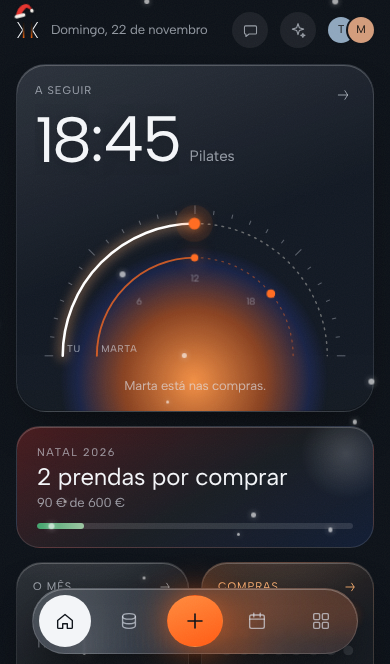
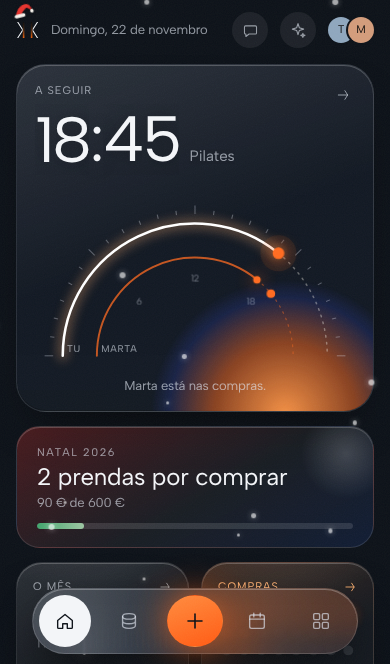
Natal: lista compacta; tocar na pessoa abre o cartão dela com tudo editável, as ideias e os anos anteriores (#119)
Claude-Session: https://claude.ai/code/session_013frMxfY7BhmHkVSM7abdmm

Changed region(s): [[0.1846, 0.3012, 0.9538, 0.6325], [0.1538, 0.4819, 0.1846, 0.512]]

diff --git a/src/screens/Natal.tsx b/src/screens/Natal.tsx
@@ -97,29 +97,43 @@ function Ideas({ name, secret, onPick }: { name: string; secret: string | null; 
   );
 }
 
-function GiftSheet({ g }: { g: XGift }) {
+/** A pessoa aberta: tudo editável (nome, prenda, preço, comprada), as ideias e o que se deu nos anos anteriores. */
+function GiftCard({ g, done }: { g: XGift; done: () => void }) {
   const { xmas } = useHouse();
-  const { close, toast } = useOverlays();
+  const { toast } = useOverlays();
+  const { year, yearOf } = useNatal();
   const buy = useBuy();
+  const [name, setName] = useState(g.to_name);
   const [item, setItem] = useState(g.item ?? '');
   const [price, setPrice] = useState(g.price === null ? '' : String(g.price).replace('.', ','));
+  const past = pastFor(g.to_name, xmas.rows, yearOf, year);
   async function save(e: FormEvent) {
     e.preventDefault();
+    if (!name.trim()) return toast('Falta o nome.');
     const p = price.trim() ? parseAmount(price) : null;
-    const { error } = await supabase.from('xmas_gifts').update({ item: item.trim().slice(0, 80) || null, price: p }).eq('id', g.id);
+    const { error } = await supabase.from('xmas_gifts').update({ to_name: name.trim().slice(0, 60), item: item.trim().slice(0, 80) || null, price: p }).eq('id', g.id);
     if (error) return toast(error.message);
-    xmas.reload(); close();
+    xmas.reload(); done(); toast('Guardado.', { ok: true });
   }
   return (
-    <form className="stack" onSubmit={save} autoComplete="off">
-      <p className="l">{g.to_name}{g.secret_for ? ' · secreta' : ''}</p>
+    <form className="natal-card-open" onSubmit={save} autoComplete="off">
+      {!g.secret_for && <input className="field" value={name} onChange={(e) => setName(e.target.value)} maxLength={60} aria-label="Para quem" placeholder="Para quem" />}
+      <div className="natal-two">
+        <input className="field" value={item} onChange={(e) => setItem(e.target.value)} placeholder="O quê" maxLength={80} aria-label="O quê" />
+        <input className="field" value={price} onChange={(e) => setPrice(e.target.value)} placeholder="€" inputMode="decimal" aria-label="Preço" />
+      </div>
       <Ideas name={g.to_name} secret={g.secret_for} onPick={(x) => setItem(x)} />
-      <input className="field" value={item} onChange={(e) => setItem(e.target.value)} placeholder="O quê (ex.: perfume)" maxLength={80} aria-label="O quê" />
-      <input className="field" value={price} onChange={(e) => setPrice(e.target.value)} placeholder="Preço" inputMode="decimal" aria-label="Preço" />
-      <button className="btn wide press">Guardar</button>
-      {!g.bought && <button type="button" className="btn accent wide press" onClick={async () => { close(); await buy({ ...g, item: item.trim() || null }, price.trim() ? Number(parseAmount(price)) : null); }}><Icon n="check" s={18} /> Comprada</button>}
-      {g.bought && <button type="button" className="btn quiet wide press" onClick={async () => { await supabase.from('xmas_gifts').update({ bought: false, expense_id: null }).eq('id', g.id); xmas.reload(); close(); }}>Afinal ainda não está comprada</button>}
-      <button type="button" className="tb quiet press" style={{ alignSelf: 'center' }} onClick={async () => { await supabase.from('xmas_gifts').delete().eq('id', g.id); xmas.reload(); close(); toast('Apagada.'); }}>Apagar</button>
+      {past.length > 0 && <section className="natal-past" aria-label="Anos anteriores">
+        <span className="s">Anos anteriores</span>
+        <ul>{past.map((x, k) => <li key={k}><span className="num">{x.year}</span><span>{x.item ?? 'prenda'}</span><span className="num">{x.price ? euro(x.price) : ''}</span></li>)}</ul>
+      </section>}
+      <div className="natal-acts">
+        <button className="btn press">Guardar</button>
+        {!g.bought
+          ? <button type="button" className="btn accent press" onClick={async () => { done(); await buy({ ...g, to_name: name.trim() || g.to_name, item: item.trim() || null }, price.trim() ? Number(parseAmount(price)) : null); }}><Icon n="check" s={16} /> Comprada</button>
+          : <button type="button" className="btn quiet press" onClick={async () => { await supabase.from('xmas_gifts').update({ bought: false, expense_id: null }).eq('id', g.id); xmas.reload(); }}>Ainda não comprada</button>}
+        <button type="button" className="tb quiet press" onClick={async () => { await supabase.from('xmas_gifts').delete().eq('id', g.id); xmas.reload(); done(); toast('Apagada.'); }}>Apagar</button>
+      </div>
     </form>
   );
 }
@@ -147,6 +161,7 @@ export function NatalScreen() {
   const buy = useBuy();
   const [to, setTo] = useState(''), [item, setItem] = useState(''), [price, setPrice] = useState('');
   const [secret, setSecret] = useState<string | null>(null);
+  const [openId, setOpenId] = useState<string | null>(null);
   const others = members.filter((m) => m.id !== me?.id);
   const list = useMemo(() => (occ ? xmas.rows.filter((g) => g.occasion_id === occ.id) : []).sort((a, b) => Number(a.bought) - Number(b.bought) || a.to_name.localeCompare(b.to_name)), [xmas.rows, occ]);
   const total = publicTotal(list.filter((g) => g.bought));
@@ -198,17 +213,20 @@ export function NatalScreen() {
       {list.length === 0 ? <p className="s">Ainda sem prendas. Começa pelas pessoas: o resto vem depois.</p> : (
         <ul className="natal-list">
           {list.map((g) => {
-            const past = pastFor(g.to_name, xmas.rows, yearOf, year)[0];
             const nIdeas = ideasFor(g.to_name, ideas.rows).length;
+            const isOpen = openId === g.id;
             return (
-              <li key={g.id} className={g.bought ? 'done' : ''}>
-                <button type="button" className="tick press" role="checkbox" aria-checked={g.bought} aria-label={`${g.bought ? 'Comprada' : 'Por comprar'}: ${g.to_name}`}
-                  onClick={async () => { if (g.bought) { await supabase.from('xmas_gifts').update({ bought: false, expense_id: null }).eq('id', g.id); xmas.reload(); } else if (g.price === null) open(<GiftSheet g={g} />); else await buy(g, Number(g.price)); }}><i /></button>
-                <button type="button" className="st2 press natal-row" onClick={() => open(<GiftSheet g={g} />)}>
-                  <span>{g.to_name}{g.secret_for && <span className="natal-lock"> · secreta</span>}</span>
-                  <span className="s">{[g.item, !g.item && nIdeas ? `${nIdeas} ${nIdeas === 1 ? 'ideia' : 'ideias'}` : '', past ? `${past.year}: ${past.item ?? 'prenda'}${past.price ? ` · ${euro(past.price)}` : ''}` : ''].filter(Boolean).join(' · ') || 'O quê?'}</span>
-                </button>
-                <span className="num natal-p">{g.price !== null ? euro(Number(g.price)) : '—'}</span>
+              <li key={g.id} className={`${g.bought ? 'done' : ''}${isOpen ? ' open' : ''}`}>
+                <div className="natal-line">
+                  <button type="button" className="tick press" role="checkbox" aria-checked={g.bought} aria-label={`${g.bought ? 'Comprada' : 'Por comprar'}: ${g.to_name}`}
+                    onClick={async () => { if (g.bought) { await supabase.from('xmas_gifts').update({ bought: false, expense_id: null }).eq('id', g.id); xmas.reload(); } else if (g.price === null) setOpenId(g.id); else await buy(g, Number(g.price)); }}><i /></button>
+                  <button type="button" className="natal-row press" aria-expanded={isOpen} onClick={() => setOpenId(isOpen ? null : g.id)}>
+                    <b>{g.to_name}</b>{g.secret_for && <span className="natal-lock">secreta</span>}
+                    <span className="s">{g.item ?? (nIdeas ? `${nIdeas} ${nIdeas === 1 ? 'ideia' : 'ideias'}` : '')}</span>
+                  </button>
+                  <span className="num natal-p">{g.price !== null ? euro(Number(g.price)) : ''}</span>
+                </div>
+                {isOpen && <GiftCard g={g} done={() => setOpenId(null)} />}
               </li>
             );
           })}

diff --git a/src/n2/n2.css b/src/n2/n2.css
@@ -547,7 +547,7 @@ a.lead:hover{text-decoration:underline;text-decoration-thickness:1px;text-underl
 .natal-secret{display:inline-flex;align-items:center;gap:6px}
 .natal-add{display:grid;gap:10px;padding:16px}
 .natal-list{list-style:none;margin:0;padding:0;display:grid;gap:2px}
-.natal-list li{display:grid;grid-template-columns:auto 1fr auto;align-items:center;gap:12px;padding:10px 2px;border-bottom:1px solid var(--line)}
+.natal-list > li.x-old{display:grid;grid-template-columns:auto 1fr auto;align-items:center;gap:12px;padding:10px 2px;border-bottom:1px solid var(--line)}
 .natal-list li.done .natal-row > span:first-child{color:var(--sub);text-decoration:line-through;text-decoration-color:rgba(255,255,255,.3)}
 .natal-row{background:none;border:0;color:inherit;text-align:left;padding:0;min-width:0}
 .natal-row .s{white-space:nowrap;overflow:hidden;text-overflow:ellipsis}
@@ -566,3 +566,20 @@ a.lead:hover{text-decoration:underline;text-decoration-thickness:1px;text-underl
 .natal-ideas li{display:grid;grid-template-columns:1fr auto auto;align-items:center;gap:6px;padding:6px 0;border-bottom:1px solid var(--line)}
 .natal-ideas .add-row{display:flex;gap:8px}
 .natal-ideas .add-row .field{flex:1;min-width:0}
+/* Natal: lista compacta; a pessoa abre-se no próprio cartão */
+.natal-list > li{display:block;padding:0;border-bottom:1px solid var(--line)}
+.natal-line{display:grid;grid-template-columns:auto minmax(0,1fr) auto;align-items:center;gap:10px;min-height:44px}
+.natal-list .tick{width:22px;height:22px}
+.natal-row{display:flex;align-items:baseline;gap:8px;min-width:0;background:none;border:0;color:inherit;text-align:left;padding:10px 0;width:100%}
+.natal-row b{font-weight:500;white-space:nowrap}
+.natal-row .s{min-width:0;white-space:nowrap;overflow:hidden;text-overflow:ellipsis}
+.natal-row .natal-lock{font-size:10px;letter-spacing:.06em;text-transform:uppercase;color:#FF8A5C}
+.natal-list > li.done .natal-row b{color:var(--sub);text-decoration:line-through;text-decoration-color:rgba(255,255,255,.3)}
+.natal-list > li.open{background:rgba(255,255,255,.04);border-radius:14px;border-bottom-color:transparent;margin:4px 0;padding:0 10px 12px}
+.natal-card-open{display:grid;gap:10px;grid-template-columns:minmax(0,1fr);animation:mo-in 240ms var(--ease-out) both}
+.natal-card-open .field{min-width:0;width:100%;box-sizing:border-box}
+.natal-two{display:grid;grid-template-columns:minmax(0,2fr) minmax(0,1fr);gap:8px}
+.natal-past ul{list-style:none;margin:4px 0 0;padding:0;display:grid;gap:2px}
+.natal-past li{display:grid;grid-template-columns:44px minmax(0,1fr) auto;gap:8px;font-size:var(--t-s);color:var(--sub);padding:4px 0;border:0}
+.natal-acts{display:flex;flex-wrap:wrap;gap:8px;align-items:center}
+.natal-acts .tb{margin-left:auto}
